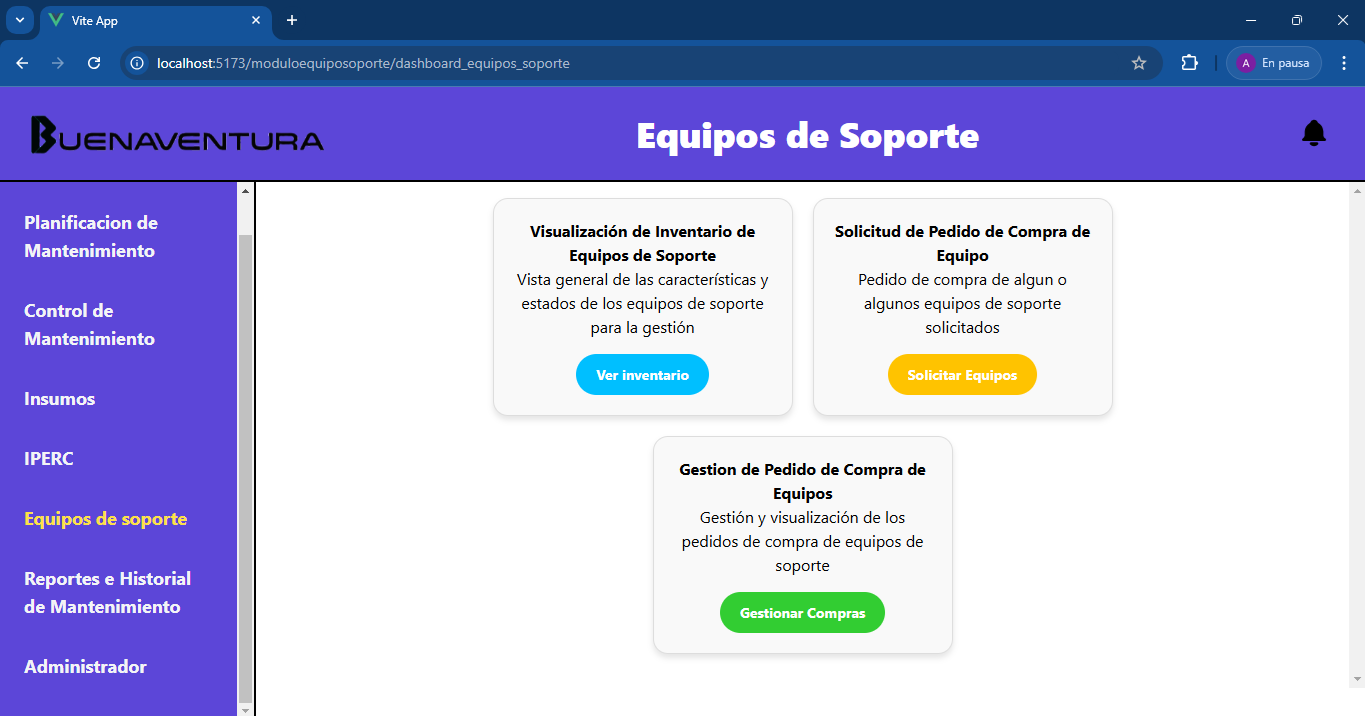
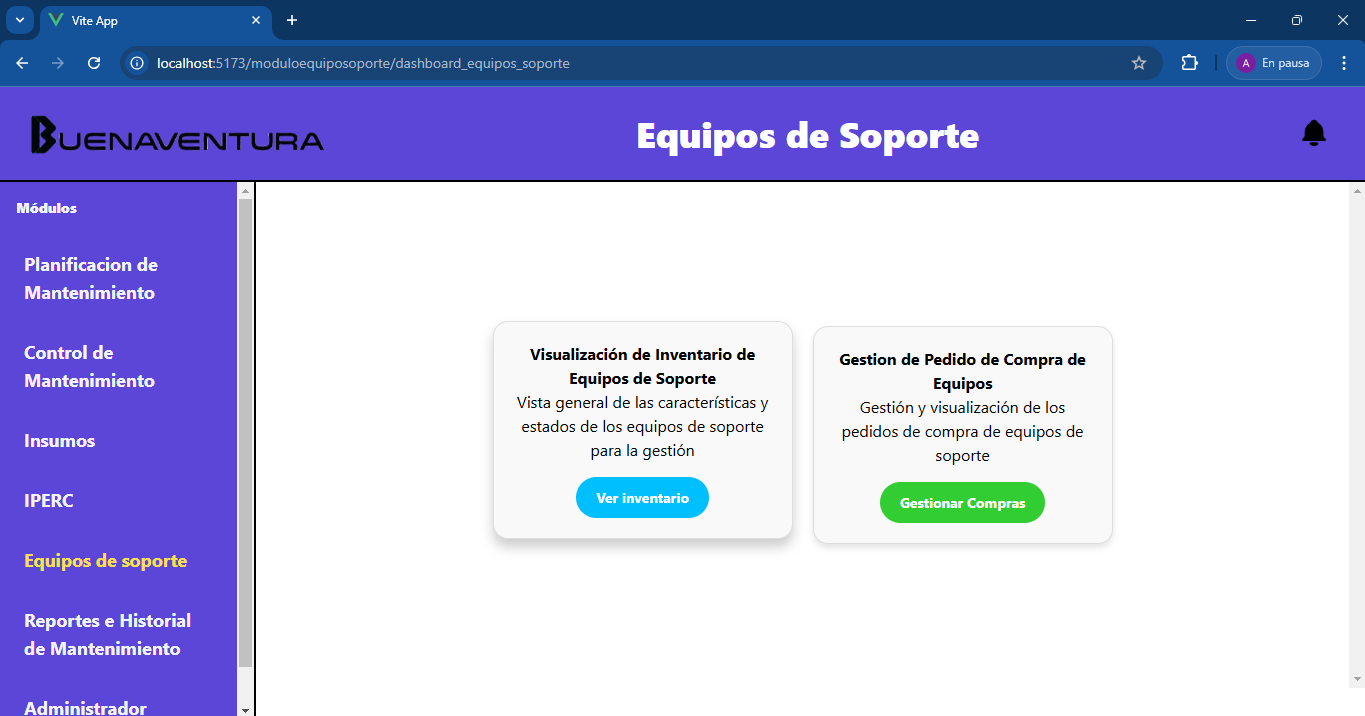
algo

diff --git a/11/11.3/11.3.md b/11/11.3/11.3.md
@@ -109,7 +109,29 @@
 
 ## Módulo 4: Control del mantenimiento:
 
-## Módulo 5: Control del mantenimiento:
+## Módulo 5: Gestion de Equipos de Soporte
+
+### Dashboard
+
+![Equipo_soporte](../imagenes/Equipo_soporte_dashboard.png)
+
+### Inventario de equipos de soporte 
+
+![Equipo_soporte](../imagenes/Equipo_soporte_inventario.png)
+
+### Visualizacion de los detalles de un equipo de soporte en especifico
+
+![Equipo_soporte](../imagenes/Equipo_soporte_detalleInventario.png)
+
+### Lista de todos los pedidos de compra
+
+![Equipo_soporte](../imagenes/Equipo_soporte_controlPedidos.png)
+
+### Detalle del pedido de compra
+
+![Equipo_soporte](../imagenes/Equipo_soporte_detallePedido.png)
+
+---
 
 ## Módulo 6: Control del mantenimiento:
 
